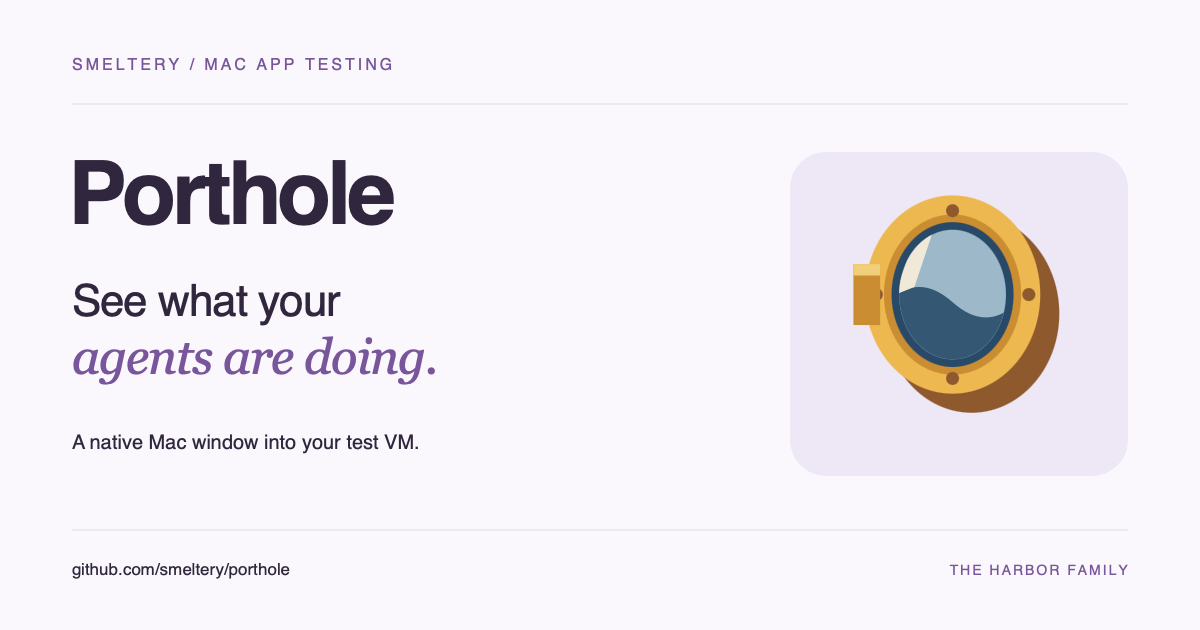
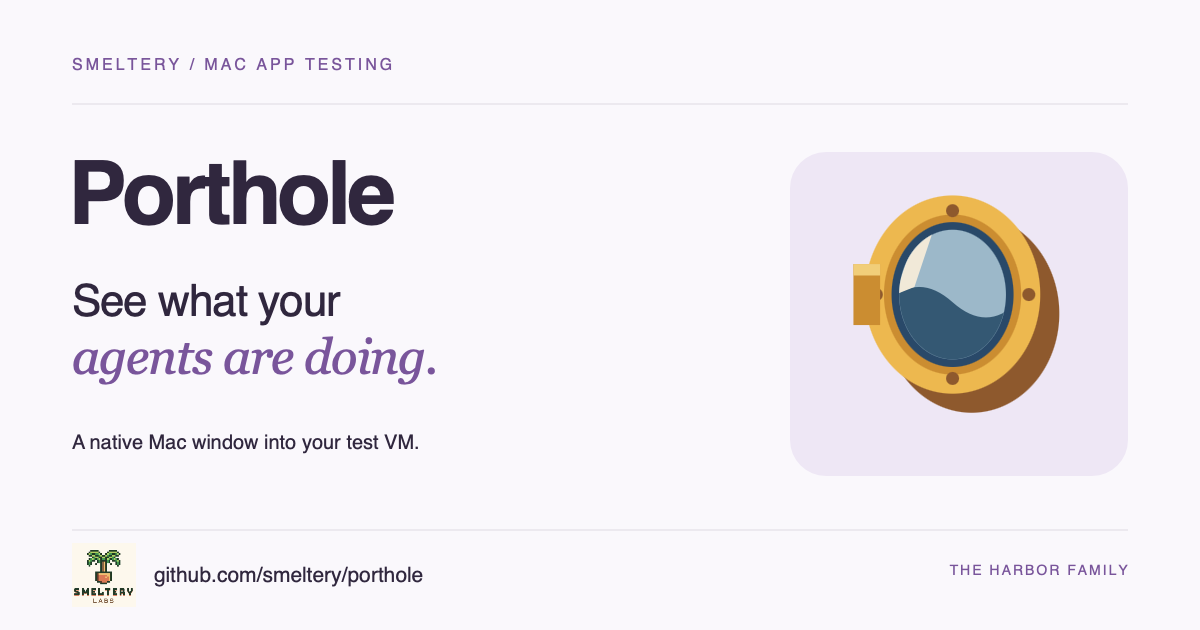
design: add Smeltery branding to social card footers

Changed region(s): [[0.0617, 0.8746, 0.37, 0.9651]]

diff --git a/assets/brands/README.md b/assets/brands/README.md
@@ -6,3 +6,4 @@ Third-party marks identify the tools used by this project.
 - Bun: [official logo](https://bun.sh/logo.svg).
 - Flox: [official favicon](https://flox.dev/favicon.svg).
 - Swift: [Simple Icons](https://simpleicons.org/), CC0.
+- Smeltery Labs: shared organization mark from `smeltery/trellis/fork/branding/smeltery.png`.
